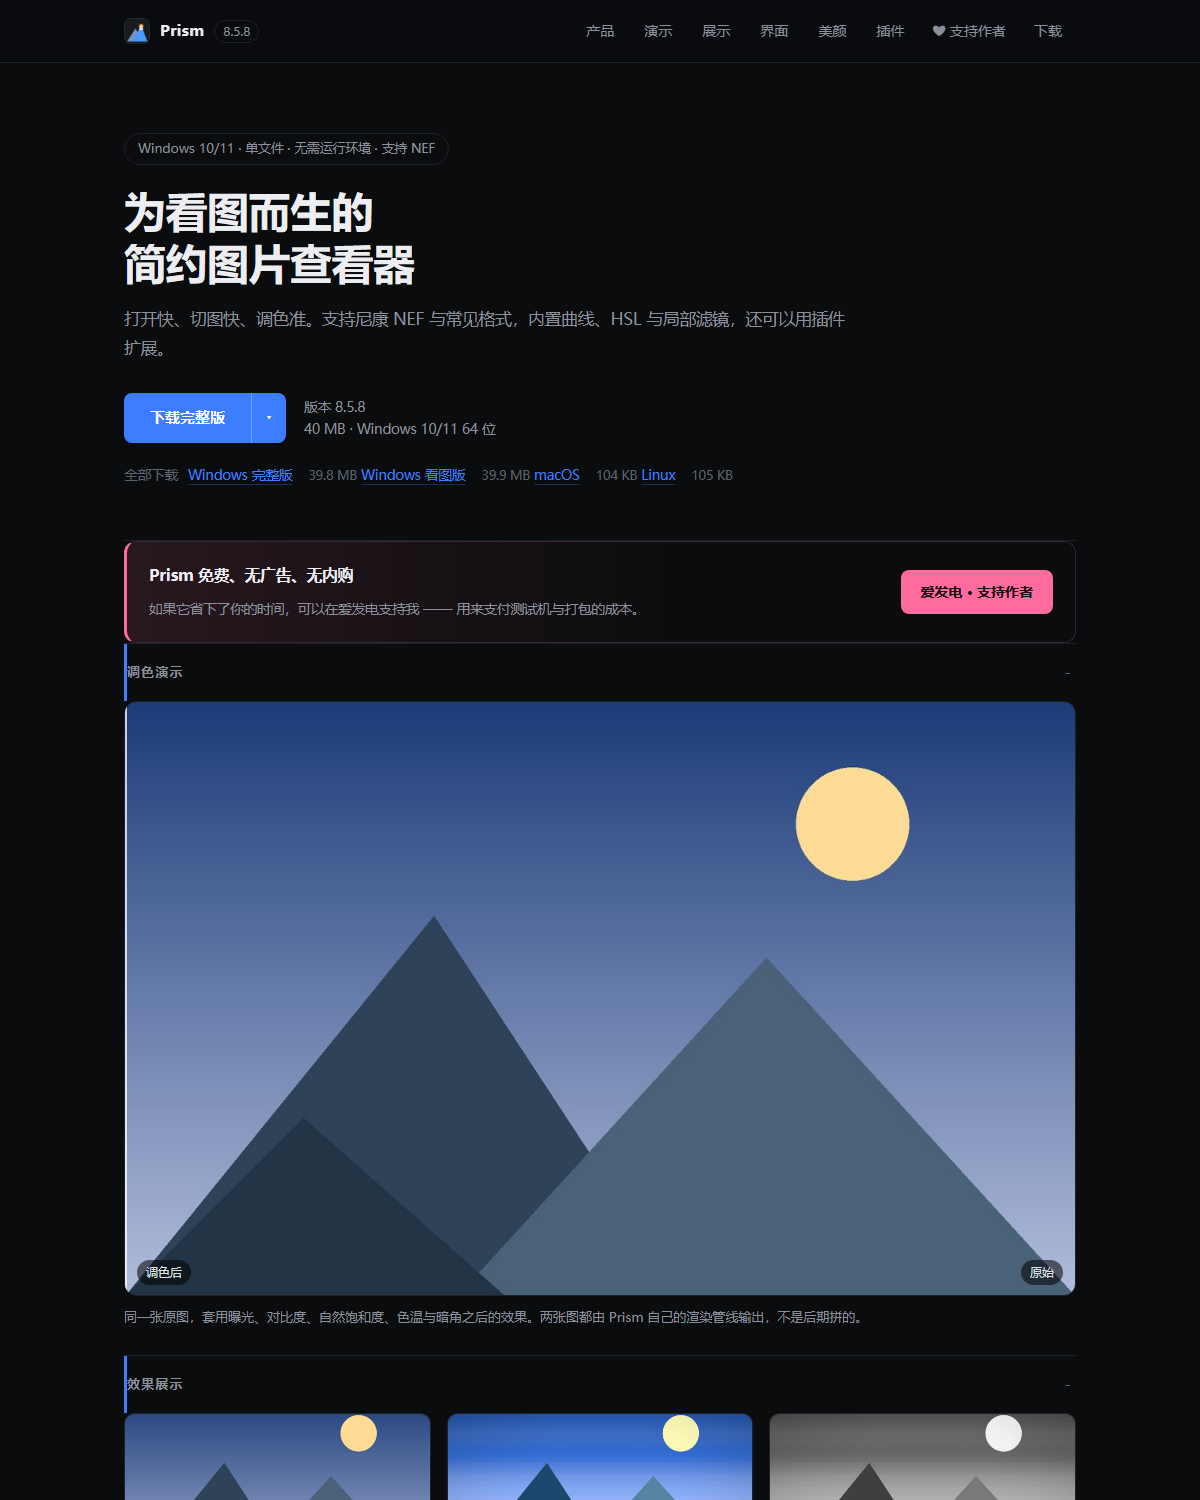
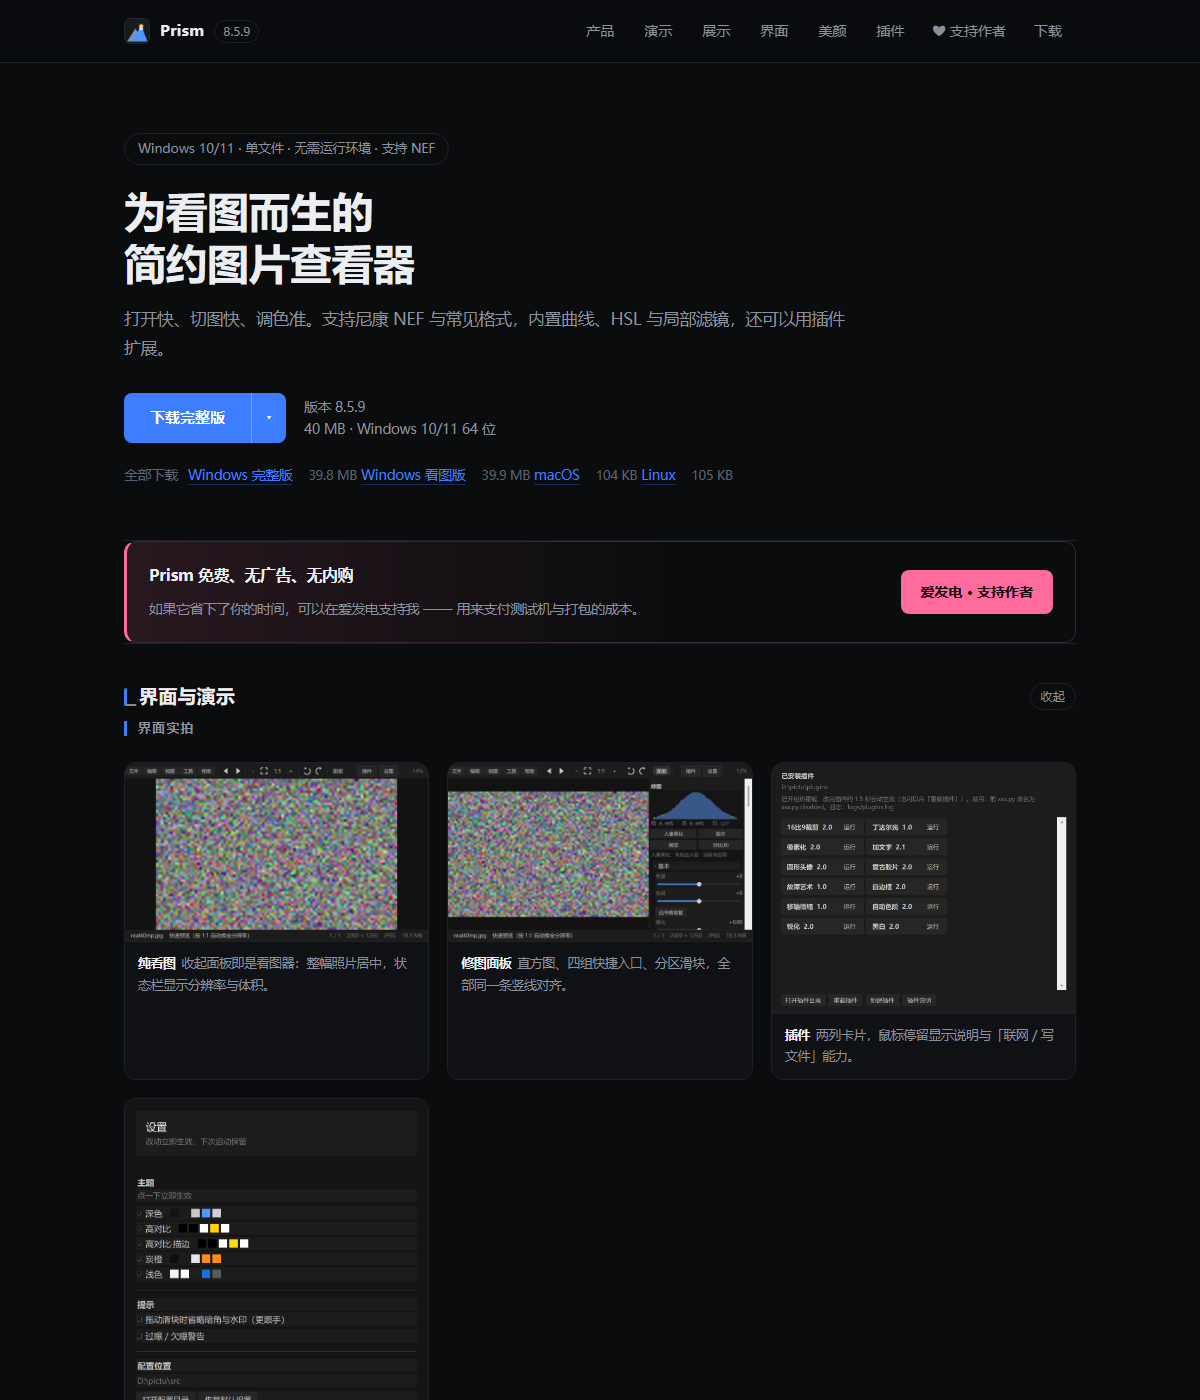
release 8.6.0: 网页五板块折叠(原生 details) + 四张实机截图(含纯看图模式)

diff --git a/docs/index.html b/docs/index.html
@@ -77,11 +77,23 @@
   td:last-child{color:var(--fg);text-align:right}
   code{font-family:Consolas,"SF Mono",monospace;font-size:12.5px;color:var(--code);word-break:break-all}
   /* ---------- 界面实拍 ---------- */
-  .ui{display:grid;grid-template-columns:repeat(auto-fit,minmax(280px,1fr));gap:18px}
+  .ui{display:grid;grid-template-columns:repeat(auto-fit,minmax(380px,1fr));gap:20px}
   .ui figure{border:1px solid var(--line);border-radius:12px;overflow:hidden;background:#0f1114}
   .ui img{display:block;width:100%;height:auto}
   .ui figcaption{padding:11px 13px;font-size:12.5px;color:var(--dim);border-top:1px solid var(--line)}
   .ui figcaption b{color:var(--fg);font-weight:600;margin-right:6px}
+  /* ---------- 大板块（原生 details 折叠） ---------- */
+  .blk{border-top:1px solid var(--line)}
+  .blk>summary{list-style:none;cursor:pointer;display:flex;align-items:center;gap:12px;
+    padding:26px 0;font-size:19px;font-weight:600;letter-spacing:.2px;color:var(--fg)}
+  .blk>summary::-webkit-details-marker{display:none}
+  .blk>summary::before{content:"";width:3px;height:18px;border-radius:2px;background:var(--accent)}
+  .blk>summary::after{content:"展开";margin-left:auto;font-size:12px;font-weight:400;
+    color:var(--dim);border:1px solid var(--line);border-radius:20px;padding:2px 10px}
+  .blk[open]>summary::after{content:"收起"}
+  .blk[open]>summary{padding-bottom:8px}
+  .blk>summary:hover::after{color:var(--fg)}
+  .blk>section:first-of-type{border-top:0}
   /* ---------- 支持作者 ---------- */
   .support{padding:34px 0;border-top:1px solid var(--line)}
   .sup-card{display:flex;align-items:center;gap:22px;flex-wrap:wrap;justify-content:space-between;
@@ -169,7 +181,7 @@
 </head>
 <body>
 <div class="top"><div class="topin">
-  <a class="brand" href="./"><img src="Prism.png" alt=""><b>Prism</b><i>8.5.9</i></a>
+  <a class="brand" href="./"><img src="Prism.png" alt=""><b>Prism</b><i>8.6.0</i></a>
   <nav class="menu">
     <div class="mi"><a href="#features">产品</a>
       <div class="sub">
@@ -203,11 +215,11 @@
     <div class="mi"><a href="#download">下载</a>
       <div class="sub">
         <span class="gh">Windows</span>
-        <a href="https://github.com/11ly322/Prism/releases/download/v8.5.9/Prism-Setup-8.5.9.exe" download><span style="display:inline-block;margin-left:6px;padding:1px 6px;border-radius:6px;font-size:11px;background:#2f7d32;color:#fff">完整支持</span>完整版 <i>39.9 MB</i></a>
-        <a href="https://github.com/11ly322/Prism/releases/download/v8.5.9/Prism-Viewer-Setup-8.5.9.exe" download>看图版（安装包） <i>39.9 MB</i></a>
+        <a href="https://github.com/11ly322/Prism/releases/download/v8.6.0/Prism-Setup-8.6.0.exe" download><span style="display:inline-block;margin-left:6px;padding:1px 6px;border-radius:6px;font-size:11px;background:#2f7d32;color:#fff">完整支持</span>完整版 <i>39.9 MB</i></a>
+        <a href="https://github.com/11ly322/Prism/releases/download/v8.6.0/Prism-Viewer-Setup-8.6.0.exe" download>看图版（安装包） <i>39.9 MB</i></a>
         <span class="gh">其它平台</span>
-        <a href="https://github.com/11ly322/Prism/releases/download/v8.5.9/Prism-macOS-8.5.9.zip" download><span style="display:inline-block;margin-left:6px;padding:1px 6px;border-radius:6px;font-size:11px;background:#8a6d1f;color:#fff">源码预览</span>macOS <i>源码运行</i></a>
-        <a href="https://github.com/11ly322/Prism/releases/download/v8.5.9/Prism-Linux-8.5.9.zip" download><span style="display:inline-block;margin-left:6px;padding:1px 6px;border-radius:6px;font-size:11px;background:#8a6d1f;color:#fff">源码预览</span>Linux <i>源码运行</i></a>
+        <a href="https://github.com/11ly322/Prism/releases/download/v8.6.0/Prism-macOS-8.6.0.zip" download><span style="display:inline-block;margin-left:6px;padding:1px 6px;border-radius:6px;font-size:11px;background:#8a6d1f;color:#fff">源码预览</span>macOS <i>源码运行</i></a>
+        <a href="https://github.com/11ly322/Prism/releases/download/v8.6.0/Prism-Linux-8.6.0.zip" download><span style="display:inline-block;margin-left:6px;padding:1px 6px;border-radius:6px;font-size:11px;background:#8a6d1f;color:#fff">源码预览</span>Linux <i>源码运行</i></a>
         <span class="sp"></span>
         <a href="#docs">说明文档</a>
         <a href="#verify">证书与校验</a>
@@ -223,22 +235,22 @@
     <p class="lead">打开快、切图快、调色准。支持尼康 NEF 与常见格式，内置曲线、HSL 与局部滤镜，还可以用插件扩展。</p>
     <div class="cta">
       <div class="spl">
-        <a class="btn" href="https://github.com/11ly322/Prism/releases/download/v8.5.9/Prism-Setup-8.5.9.exe" download>下载完整版</a>
+        <a class="btn" href="https://github.com/11ly322/Prism/releases/download/v8.6.0/Prism-Setup-8.6.0.exe" download>下载完整版</a>
         <button class="caret" aria-label="更多版本">▾</button>
         <div class="opts">
-          <a href="https://github.com/11ly322/Prism/releases/download/v8.5.9/Prism-Setup-8.5.9.exe" download><i>40.0 MB</i><b>Windows 完整版</b><span>安装包 · 含修图与插件</span></a>
-          <a href="https://github.com/11ly322/Prism/releases/download/v8.5.9/Prism-Viewer-Setup-8.5.9.exe" download><i>39.9 MB</i><b>Windows 看图版</b><span>安装包 · 纯浏览，与完整版同样装法</span></a>
-          <a href="https://github.com/11ly322/Prism/releases/download/v8.5.9/Prism-macOS-8.5.9.zip" download><i>149 KB</i><b>macOS</b><span>源码运行 · 需 Python 3</span></a>
-          <a href="https://github.com/11ly322/Prism/releases/download/v8.5.9/Prism-Linux-8.5.9.zip" download><i>149 KB</i><b>Linux</b><span>源码运行 · 带桌面项</span></a>
+          <a href="https://github.com/11ly322/Prism/releases/download/v8.6.0/Prism-Setup-8.6.0.exe" download><i>40.0 MB</i><b>Windows 完整版</b><span>安装包 · 含修图与插件</span></a>
+          <a href="https://github.com/11ly322/Prism/releases/download/v8.6.0/Prism-Viewer-Setup-8.6.0.exe" download><i>39.9 MB</i><b>Windows 看图版</b><span>安装包 · 纯浏览，与完整版同样装法</span></a>
+          <a href="https://github.com/11ly322/Prism/releases/download/v8.6.0/Prism-macOS-8.6.0.zip" download><i>149 KB</i><b>macOS</b><span>源码运行 · 需 Python 3</span></a>
+          <a href="https://github.com/11ly322/Prism/releases/download/v8.6.0/Prism-Linux-8.6.0.zip" download><i>149 KB</i><b>Linux</b><span>源码运行 · 带桌面项</span></a>
         </div>
       </div>
-      <div class="meta">版本 8.5.9<br>40 MB · Windows 10/11 64 位</div>
+      <div class="meta">版本 8.6.0<br>40 MB · Windows 10/11 64 位</div>
     </div>
     <p class="plats"><b>全部下载</b>
-      <a href="https://github.com/11ly322/Prism/releases/download/v8.5.9/Prism-Setup-8.5.9.exe" download>Windows 完整版</a><em>39.8 MB</em>
-      <a href="https://github.com/11ly322/Prism/releases/download/v8.5.9/Prism-Viewer-Setup-8.5.9.exe" download>Windows 看图版</a><em>39.9 MB</em>
-      <a href="https://github.com/11ly322/Prism/releases/download/v8.5.9/Prism-macOS-8.5.9.zip" download>macOS</a><em>104 KB</em>
-      <a href="https://github.com/11ly322/Prism/releases/download/v8.5.9/Prism-Linux-8.5.9.zip" download>Linux</a><em>105 KB</em>
+      <a href="https://github.com/11ly322/Prism/releases/download/v8.6.0/Prism-Setup-8.6.0.exe" download>Windows 完整版</a><em>39.8 MB</em>
+      <a href="https://github.com/11ly322/Prism/releases/download/v8.6.0/Prism-Viewer-Setup-8.6.0.exe" download>Windows 看图版</a><em>39.9 MB</em>
+      <a href="https://github.com/11ly322/Prism/releases/download/v8.6.0/Prism-macOS-8.6.0.zip" download>macOS</a><em>104 KB</em>
+      <a href="https://github.com/11ly322/Prism/releases/download/v8.6.0/Prism-Linux-8.6.0.zip" download>Linux</a><em>105 KB</em>
     </p>
   </header>
 
@@ -250,6 +262,31 @@
       </div>
       <a class="sup-btn" href="https://afdian.com/a/pis01" target="_blank" rel="noopener">爱发电 · 支持作者</a>
     </div>
+  </section>
+
+  <details class="blk" open>
+    <summary>界面与演示</summary>
+  <section id="ui">
+    <h2>界面实拍</h2>
+    <div class="ui">
+      <figure>
+        <img src="shots/ui-viewer.png" alt="纯看图模式" loading="lazy">
+        <figcaption><b>纯看图</b>收起面板即是看图器：整幅照片居中，状态栏显示分辨率与体积。</figcaption>
+      </figure>
+      <figure>
+        <img src="shots/ui-main.png" alt="主界面" loading="lazy">
+        <figcaption><b>修图面板</b>直方图、四组快捷入口、分区滑块，全部同一条竖线对齐。</figcaption>
+      </figure>
+      <figure>
+        <img src="shots/ui-plugins.png" alt="插件窗口" loading="lazy">
+        <figcaption><b>插件</b>两列卡片，鼠标停留显示说明与「联网 / 写文件」能力。</figcaption>
+      </figure>
+      <figure>
+        <img src="shots/ui-settings.png" alt="设置窗口" loading="lazy">
+        <figcaption><b>设置</b>主题即时切换，窗口使用系统原生圆角。</figcaption>
+      </figure>
+    </div>
+    <p class="cap">以上三张是程序实际运行截图，由发版脚本自动生成（tools/uishot.py），不是设计稿。</p>
   </section>
 
   <section id="demo">
@@ -274,25 +311,10 @@
     </div>
   </section>
 
-  <section id="ui">
-    <h2>界面实拍</h2>
-    <div class="ui">
-      <figure>
-        <img src="shots/ui-main.png" alt="主界面" loading="lazy">
-        <figcaption><b>主界面</b>直方图、四组快捷入口、分区滑块，全部同一条竖线对齐。</figcaption>
-      </figure>
-      <figure>
-        <img src="shots/ui-plugins.png" alt="插件窗口" loading="lazy">
-        <figcaption><b>插件</b>两列卡片，鼠标停留显示说明与「联网 / 写文件」能力。</figcaption>
-      </figure>
-      <figure>
-        <img src="shots/ui-settings.png" alt="设置窗口" loading="lazy">
-        <figcaption><b>设置</b>主题即时切换，窗口使用系统原生圆角。</figcaption>
-      </figure>
-    </div>
-    <p class="cap">以上三张是程序实际运行截图，由发版脚本自动生成（tools/uishot.py），不是设计稿。</p>
-  </section>
+  </details>
 
+  <details class="blk" open>
+    <summary>功能与美颜</summary>
   <section id="features">
     <h2>要点</h2>
     <table>
@@ -333,6 +355,10 @@
     <p class="cap">完整参数表与实现细节见 <a href="README.md">README</a> 的「人像美化」章节。</p>
   </section>
 
+  </details>
+
+  <details class="blk" open>
+    <summary>插件扩展</summary>
   <section id="plugins">
     <h2>插件</h2>
     <p class="cap" style="margin-top:0;margin-bottom:16px">插件就是一个 Python 文件。放进程序目录下的 plugins/ 文件夹，点「重新扫描」即可，不需要注册也不需要重启。</p>
@@ -345,13 +371,17 @@
     </table>
   </section>
 
+  </details>
+
+  <details class="blk" open>
+    <summary>说明文档</summary>
   <section id="docs">
     <h2>说明文档</h2>
 
     <h3>安装</h3>
     <table>
       <tr><td class="grp" colspan="2">Windows</td></tr>
-      <tr><td>1</td><td>下载 <code>Prism-Setup-8.5.9.exe</code> 并双击</td></tr>
+      <tr><td>1</td><td>下载 <code>Prism-Setup-8.6.0.exe</code> 并双击</td></tr>
       <tr><td>2</td><td>选择安装方式（本机安装 / 就地解压）与位置</td></tr>
       <tr><td>3</td><td>可选建开始菜单与桌面快捷方式，完成后直接启动</td></tr>
       <tr><td class="grp" colspan="2">macOS</td></tr>
@@ -410,20 +440,24 @@
     <p class="cap">完整的 Markdown 说明见 <a href="README.md">README.md</a>。</p>
   </section>
 
+  </details>
+
+  <details class="blk" open>
+    <summary>下载、校验与常见问题</summary>
   <section id="download">
     <h2>下载与安装</h2>
     <table>
       <tr><td class="grp" colspan="2">Windows</td></tr>
-      <tr><td><a href="https://github.com/11ly322/Prism/releases/download/v8.5.9/Prism-Setup-8.5.9.exe" download>完整版安装包</a></td>
+      <tr><td><a href="https://github.com/11ly322/Prism/releases/download/v8.6.0/Prism-Setup-8.6.0.exe" download>完整版安装包</a></td>
           <td>39.8 MB · 含修图面板与插件</td></tr>
-      <tr><td><a href="https://github.com/11ly322/Prism/releases/download/v8.5.9/Prism-Viewer-Setup-8.5.9.exe" download>纯看图版（安装包）</a></td>
+      <tr><td><a href="https://github.com/11ly322/Prism/releases/download/v8.6.0/Prism-Viewer-Setup-8.6.0.exe" download>纯看图版（安装包）</a></td>
           <td>39.9 MB · 与完整版同样装法，含开始菜单与桌面快捷方式</td></tr>
-      <tr><td><a href="https://github.com/11ly322/Prism/releases/download/v8.5.9/Prism-Viewer-8.5.9.zip" download>纯看图版（便携）</a></td>
+      <tr><td><a href="https://github.com/11ly322/Prism/releases/download/v8.6.0/Prism-Viewer-8.6.0.zip" download>纯看图版（便携）</a></td>
           <td>29.9 MB · 解压即用，不写注册表</td></tr>
       <tr><td class="grp" colspan="2">macOS / Linux</td></tr>
-      <tr><td><a href="https://github.com/11ly322/Prism/releases/download/v8.5.9/Prism-macOS-8.5.9.zip" download>macOS 运行包</a></td>
+      <tr><td><a href="https://github.com/11ly322/Prism/releases/download/v8.6.0/Prism-macOS-8.6.0.zip" download>macOS 运行包</a></td>
           <td>104 KB · 源码运行，需 Python 3 + Pillow</td></tr>
-      <tr><td><a href="https://github.com/11ly322/Prism/releases/download/v8.5.9/Prism-Linux-8.5.9.zip" download>Linux 运行包</a></td>
+      <tr><td><a href="https://github.com/11ly322/Prism/releases/download/v8.6.0/Prism-Linux-8.6.0.zip" download>Linux 运行包</a></td>
           <td>105 KB · 带 .desktop，需 python3-tk</td></tr>
       <tr><td class="grp" colspan="2">系统要求（Windows 版）</td></tr>
       <tr><td>操作系统</td><td>Windows 10 / 11（64 位）</td></tr>
@@ -440,11 +474,11 @@
       <p class="cap" style="margin:0">2. 全屏为兼容模式（无边框最大化 + Esc 退出），不是系统级全屏。</p>
       <p class="cap" style="margin:0">3. macOS 与 Linux 是源码预览包，没有编译好的 .app / AppImage。</p>
     </div>
-    <p class="cap" style="margin-top:10px"><strong>便携版</strong>：<a href="https://github.com/11ly322/Prism/releases/download/v8.5.9/Prism-Portable-8.5.9.zip">Prism-Portable-8.5.9.zip</a>（完整版解压即用，不写注册表、不装开始菜单）</p>
+    <p class="cap" style="margin-top:10px"><strong>便携版</strong>：<a href="https://github.com/11ly322/Prism/releases/download/v8.6.0/Prism-Portable-8.6.0.zip">Prism-Portable-8.6.0.zip</a>（完整版解压即用，不写注册表、不装开始菜单）</p>
     <h3>如何安全绕过 SmartScreen</h3>
     <p class="cap" style="margin-top:0">安装包未做代码签名，所以 Windows 会提示「已保护你的电脑」。先校验文件，再决定是否运行：</p>
     <ol class="cap" style="margin:0 0 10px 18px;padding:0">
-      <li>在 PowerShell 里校验 SHA-256：<br><code>Get-FileHash .\Prism-Setup-8.5.9.exe -Algorithm SHA256</code><br>与页面上的 SHA-256 逐位比对。</li>
+      <li>在 PowerShell 里校验 SHA-256：<br><code>Get-FileHash .\Prism-Setup-8.6.0.exe -Algorithm SHA256</code><br>与页面上的 SHA-256 逐位比对。</li>
       <li>一致 → 双击安装包，点弹窗里的「更多信息」。</li>
       <li>确认发布者是「未知发布者」且哈希已核对无误后，点「仍要运行」。</li>
       <li>校验不一致 → 立刻删除，重新下载。</li>
@@ -460,51 +494,19 @@
       <tr><td>签发机构</td><td>Let&#39;s Encrypt（由 GitHub Pages 自动签发与续期）</td></tr>
       <tr><td>有效期至</td><td>2026-12-30</td></tr>
       <tr><td class="grp" colspan="2">安装包校验</td></tr>
-      <tr><td>文件</td><td>Prism-Setup-8.5.9.exe</td></tr>
-      <tr><td>SHA-256</td><td><code>6B6D3EF3B809602811222C22757B37239887B93AC86381FB69C7BA336D1433F6</code></td></tr>
+      <tr><td>文件</td><td>Prism-Setup-8.6.0.exe</td></tr>
+      <tr><td>SHA-256</td><td><code>1A2A8047B67EE3E27BBE9F55F1B69672B5FFAF60673BD25721FE38147BB47836</code></td></tr>
     </table>
     <p class="cap">下载后可用 <code>certutil -hashfile 文件名 SHA256</code>（Windows）或 <code>shasum -a 256 文件名</code>（macOS/Linux）比对。</p>
   </section>
 
+  </details>
+
   <footer>
-    <div>Prism 8.5.9 · 简约图片查看器 · <a href="https://github.com/11ly322/Prism/blob/main/CHANGELOG.md" style="color:inherit;text-decoration:underline">完整更新日志</a> · <a href="https://afdian.com/a/pis01" target="_blank" rel="noopener">爱发电</a></div>
+    <div>Prism 8.6.0 · 简约图片查看器 · <a href="https://github.com/11ly322/Prism/blob/main/CHANGELOG.md" style="color:inherit;text-decoration:underline">完整更新日志</a> · <a href="https://afdian.com/a/pis01" target="_blank" rel="noopener">爱发电</a></div>
     <div><a href="#docs">说明文档</a></div>
   </footer>
 </div>
-<script>
-(function(){
-  var KEEP_OPEN = { demo: 1 };
-  var OPEN_BY_DEFAULT = true;   // 落地页默认展开，标题仍可点击折叠
-  var secs = document.querySelectorAll('section[id]');
-  for (var i = 0; i < secs.length; i++) {
-    (function(sec){
-      var h = sec.querySelector('h2');
-      if (!h) return;
-      var body = document.createElement('div');
-      body.className = 'fold-body';
-      var n = h.nextSibling;
-      while (n) { var nx = n.nextSibling; body.appendChild(n); n = nx; }
-      sec.appendChild(body);
-      h.className = (h.className ? h.className + ' ' : '') + 'fold-head';
-      if (OPEN_BY_DEFAULT || KEEP_OPEN[sec.id]) sec.className += ' open';
-      h.addEventListener('click', function(){
-        if (sec.className.indexOf('open') >= 0) {
-          sec.className = sec.className.replace(/\s*open/g, '');
-        } else { sec.className += ' open'; }
-      });
-    })(secs[i]);
-  }
-  function openTarget(){
-    var id = (location.hash || '').replace('#','');
-    if (!id) return;
-    var el = document.getElementById(id);
-    if (el && el.tagName.toLowerCase() === 'section' && el.className.indexOf('open') < 0) {
-      el.className += ' open';
-    }
-  }
-  window.addEventListener('hashchange', openTarget);
-  setTimeout(openTarget, 0);
-})();
-</script>
+
 </body>
 </html>

diff --git a/tools/uishot.py b/tools/uishot.py
@@ -107,6 +107,18 @@ def main():
     shots = {}
     shots["main"] = grab(app, app)
 
+    # 纯看图模式（面板收起）也是一张有代表性的实机截图
+    try:
+        app.toggle_panel(False)
+        for _ in range(30):
+            app.update(); time.sleep(0.005)
+        shots["viewer"] = grab(app, app)
+        app.toggle_panel(True)
+        for _ in range(30):
+            app.update(); time.sleep(0.005)
+    except Exception as exc:
+        print("   看图模式截图失败：%s" % exc)
+
     try:
         app.show_plugins()
         for _ in range(40):

diff --git a/CHANGELOG.md b/CHANGELOG.md
@@ -4,6 +4,18 @@
 > 已一并改为 Prism，功能与时间线不变。代码里的 QPEApp / _QpeSlider 等内部
 > 标识符与旧配置迁移路径保持原名，改动会破坏兼容。
 
+## v8.6.0  （网页分板块折叠 + 四张实机截图）
+
+- **内容分五大板块**，用原生 `<details>` 折叠（默认全部展开）：
+  界面与演示 / 功能与美颜 / 插件扩展 / 说明文档 / 下载、校验与常见问题。
+  每个板块标题带蓝色强调条与「展开·收起」胶囊；点击标题即可折叠。
+  同时**移除了旧的逐节折叠脚本** —— 两套折叠叠在一起会互相打架。
+- **实机截图增加到四张**：`tools/uishot.py` 新增「纯看图模式」（收起面板）截图，
+  连同主界面 / 插件 / 设置共四张真实运行画面，排在首屏下方第一个板块里，
+  两列网格排布。图注写明「由发版脚本自动生成，不是设计稿」。
+- 外观基线与四窗口对齐（main / viewer / plugins / settings），差异照旧写入
+  `design/uishot-log.md`。
+
 ## v8.5.9  （网页层次 + 界面实拍 + 差异留档）
 
 - **网页排版层次**：章节标题加左侧蓝色强调条并统一左对齐（之前纯灰小字、

diff --git a/docs/CHANGELOG.md b/docs/CHANGELOG.md
@@ -4,6 +4,18 @@
 > 已一并改为 Prism，功能与时间线不变。代码里的 QPEApp / _QpeSlider 等内部
 > 标识符与旧配置迁移路径保持原名，改动会破坏兼容。
 
+## v8.6.0  （网页分板块折叠 + 四张实机截图）
+
+- **内容分五大板块**，用原生 `<details>` 折叠（默认全部展开）：
+  界面与演示 / 功能与美颜 / 插件扩展 / 说明文档 / 下载、校验与常见问题。
+  每个板块标题带蓝色强调条与「展开·收起」胶囊；点击标题即可折叠。
+  同时**移除了旧的逐节折叠脚本** —— 两套折叠叠在一起会互相打架。
+- **实机截图增加到四张**：`tools/uishot.py` 新增「纯看图模式」（收起面板）截图，
+  连同主界面 / 插件 / 设置共四张真实运行画面，排在首屏下方第一个板块里，
+  两列网格排布。图注写明「由发版脚本自动生成，不是设计稿」。
+- 外观基线与四窗口对齐（main / viewer / plugins / settings），差异照旧写入
+  `design/uishot-log.md`。
+
 ## v8.5.9  （网页层次 + 界面实拍 + 差异留档）
 
 - **网页排版层次**：章节标题加左侧蓝色强调条并统一左对齐（之前纯灰小字、

diff --git a/design/uishot-log.md b/design/uishot-log.md
@@ -6,3 +6,5 @@
 | :--- | :--- | ---: | ---: | ---: |
 | 2026-10-19 | 8.5.8 | 0.02% | 0.00% | 0.16% |
 | 2026-10-19 | 8.5.9 | 0.02% | 0.00% | 0.15% |
+| 2026-10-19 | 8.5.9 | — | — | — |
+| 2026-10-19 | 8.6.0 | 0.00% | 0.00% | 0.00% |
